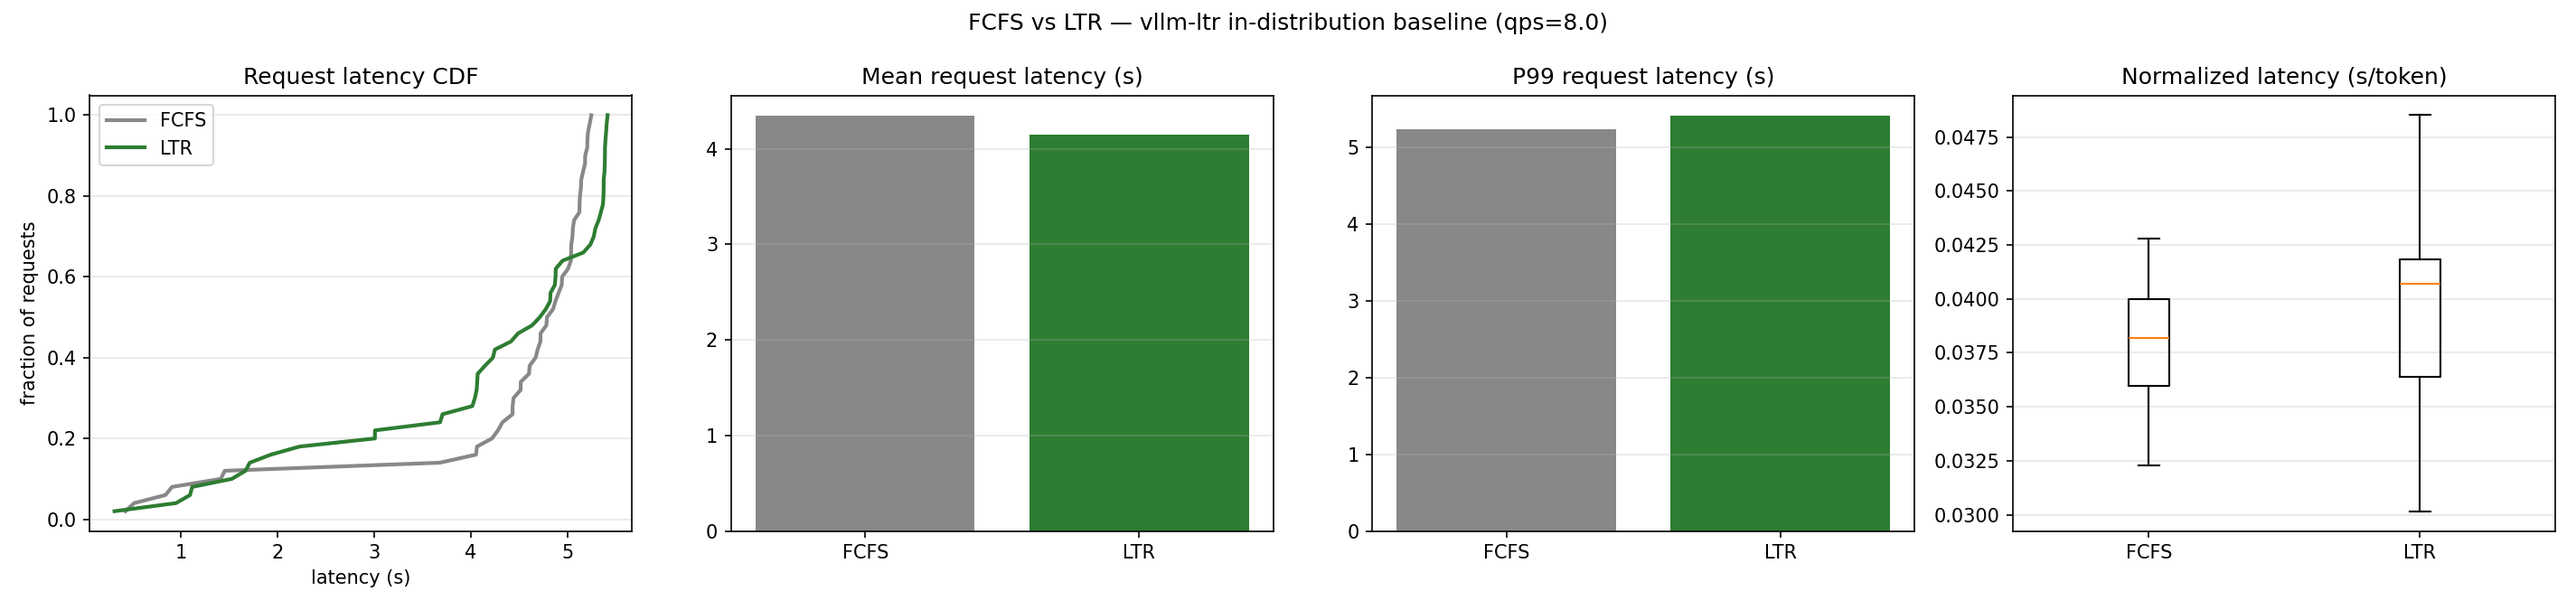
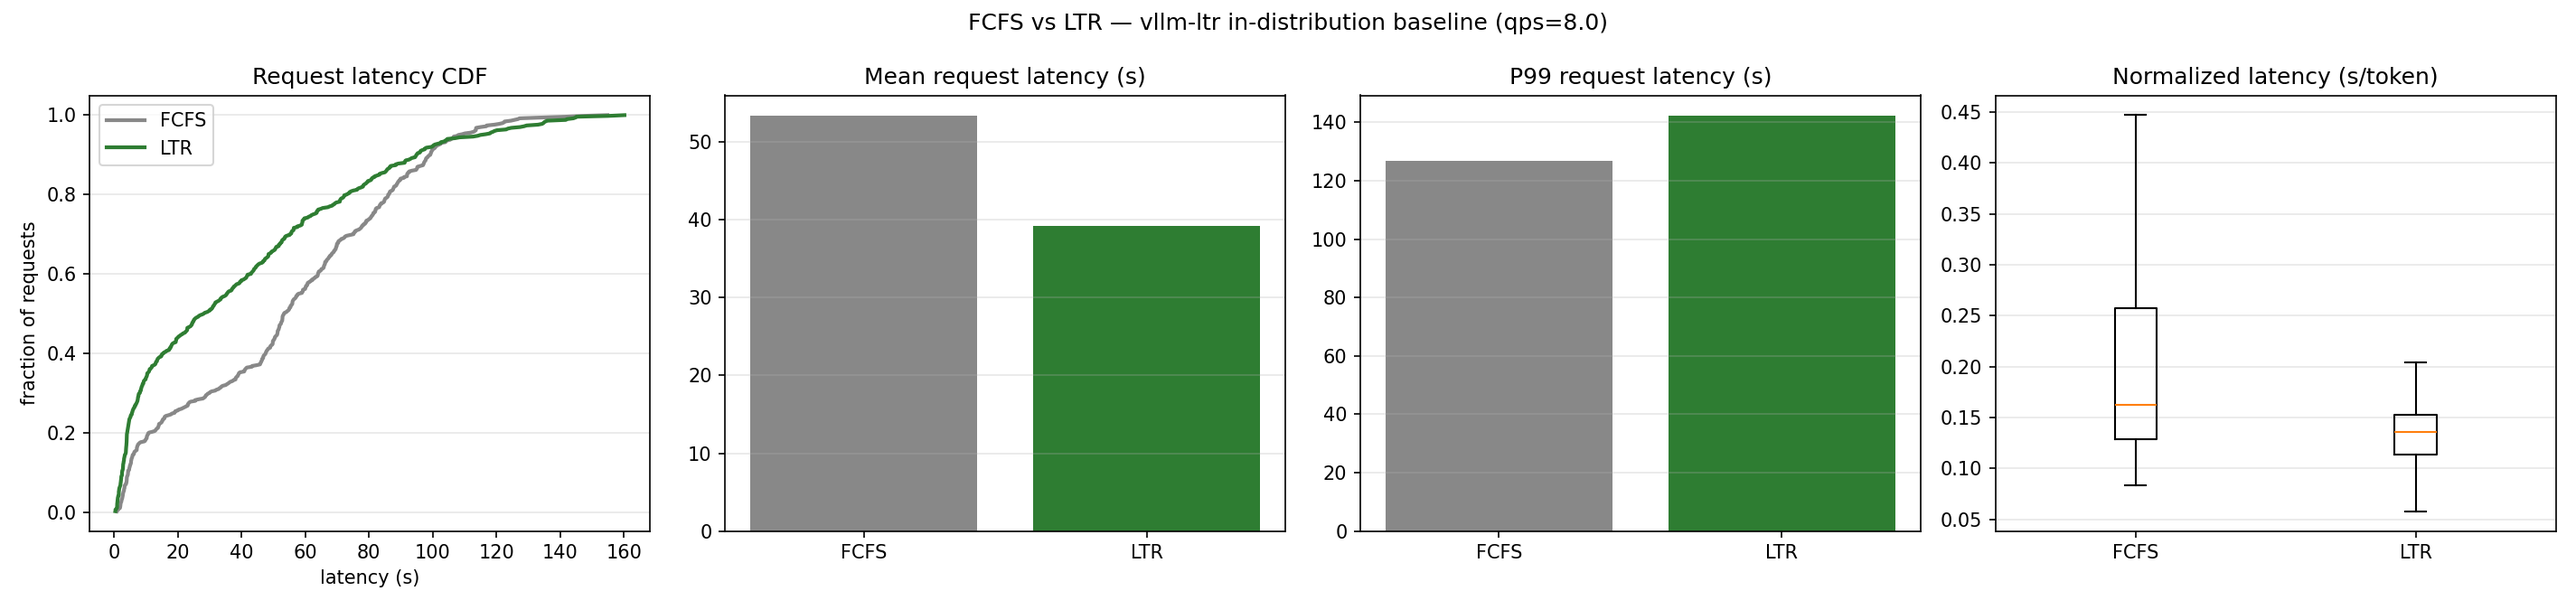
Add related-work trace-driven evaluation results

diff --git a/README.md b/README.md
@@ -153,6 +153,67 @@ is expected: the predictor was trained to rank Llama-3-8B output lengths, but
 its ranking on `facebook/opt-1.3b` is effectively noise (Kendall's Tau about
 -0.09), so LTR behaves approximately like random scheduling in this smoke test.
 
+## Related-Work Trace-Driven Evaluation
+
+This part evaluates two related scheduling directions using the Llama-3-8B
+serving trace. The goal is not to claim a full reproduction of either original
+system. Instead, the trace-driven tests check whether the core scheduling ideas
+show useful latency trends under the same Llama workload used by the base
+reproduction.
+
+### SLO-Aware Scheduling
+
+`SLO-Aware Scheduling for Large Language Model Inferences` adds
+application-level latency objectives, such as TTFT, TPOT, and end-to-end SLOs,
+to request priority. In the trace-driven test, an SLO-aware priority policy is
+compared with FCFS.
+
+| Request rate | FCFS avg latency | SLO-aware avg latency |
+|-------------:|-----------------:|----------------------:|
+| 2 | 3452 | 2461 |
+| 4 | 3509 | 1943 |
+| 8 | 3538 | 1519 |
+| 16 | 3552 | 1318 |
+
+![SLO-Aware trace-driven latency](figures/slo_aware_trace_latency.png)
+
+The SLO-aware policy reduces average latency in this Llama-3-8B trace-driven
+test. This suggests that SLO urgency can be added as an extra ranking signal on
+top of output-length-aware scheduling.
+
+### Apt-Serve
+
+`Apt-Serve: Adaptive Request Scheduling on Hybrid Cache for Scalable LLM
+Inference Serving` adds system-level awareness, especially batch composition
+and cache pressure. In the trace-driven test, an Apt-Serve-style adaptive
+hybrid policy is compared with a FCFS-KV baseline.
+
+| Request rate | FCFS-KV avg latency | Adaptive-Hybrid avg latency |
+|-------------:|--------------------:|----------------------------:|
+| 2 | 2187 | 1738 |
+| 4 | 2249 | 1370 |
+| 8 | 2279 | 985 |
+| 16 | 2295 | 750 |
+
+![Apt-Serve trace-driven latency](figures/aptserve_trace_latency.png)
+
+The adaptive hybrid policy also reduces average latency, especially at higher
+request rates. It is promising, but it requires deeper changes to cache
+management and batching logic than a pure ranking-score extension.
+
+### Takeaway
+
+The base paper's LTR scheduler remains the core method. Among the two
+related-work directions tested here, SLO-aware priority is the easiest to
+combine with LTR because it can be introduced as an additional ranking signal:
+
+```text
+final_score = LTR_score + alpha * SLO_urgency + beta * uncertainty_signal
+```
+
+Apt-Serve-style cache and batch awareness is also useful, but it is better
+treated as a later system-level extension.
+
 ## Current Status
 
 The formal `Meta-Llama-3-8B-Instruct` reproduction is complete: the
